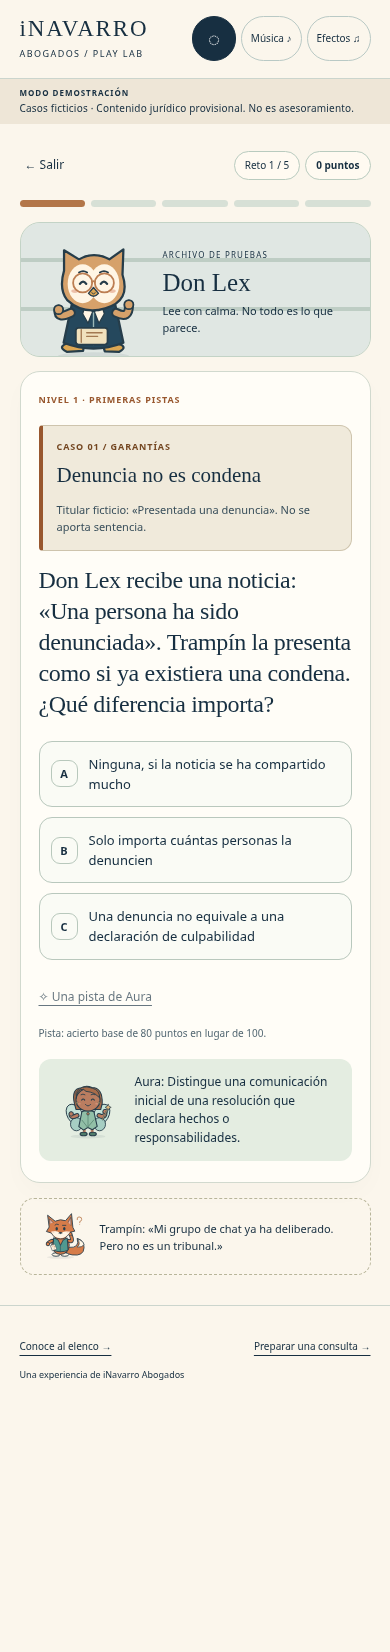
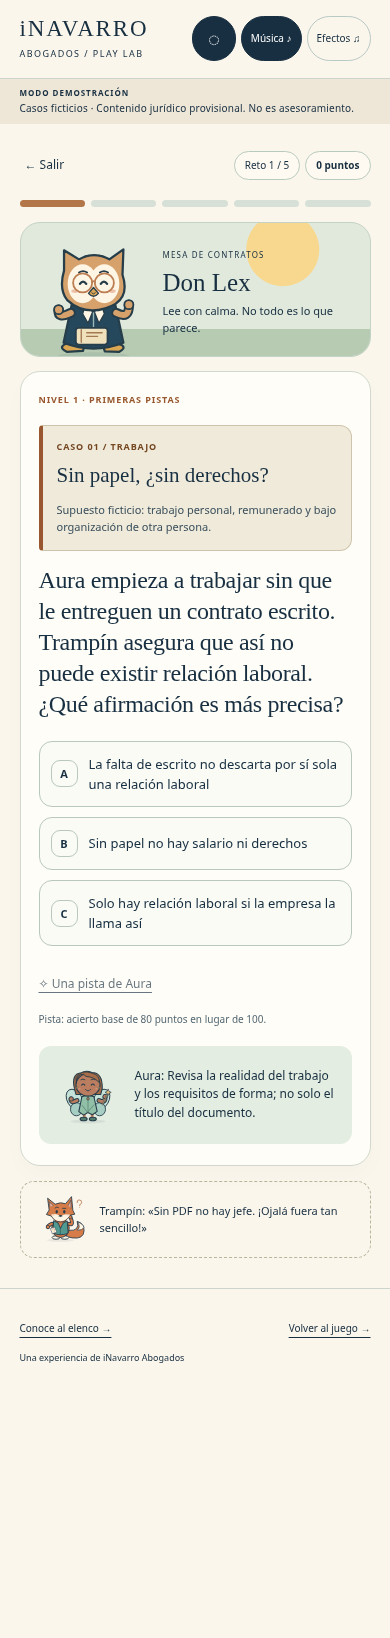
Prepare isolated HTTPS demo build and start music on Play gesture

diff --git a/web/esto-es-legal/game.js b/web/esto-es-legal/game.js
@@ -30,7 +30,8 @@ let manualMotion = false,
   started = 0,
   remaining = 20,
   pausedAt = null,
-  shareUrl = null;
+  shareUrl = null,
+  musicPreferenceSet = false;
 const el = (tag, text, cls) => {
   const n = document.createElement(tag);
   if (text !== undefined) n.textContent = text;
@@ -98,6 +99,8 @@ for (const [id, setter, name] of [
   const b = document.getElementById(id);
   b.addEventListener("click", async () => {
     const on = b.getAttribute("aria-pressed") !== "true";
+    if (id === "music") musicPreferenceSet = true;
+    b.disabled = true;
     try {
       const ok = await setter(on);
       if (!ok) {
@@ -111,8 +114,36 @@ for (const [id, setter, name] of [
       announce(`${name}: ${on ? "activado" : "desactivado"}.`);
     } catch {
       announce("Audio no disponible. La partida puede continuar.");
+    } finally {
+      b.disabled = false;
     }
   });
+}
+function startMusicFromPlayGesture() {
+  if (musicPreferenceSet || audio.music) return;
+  const control = document.getElementById("music");
+  control.disabled = true;
+  // Call before any await or navigation: iOS requires the original user gesture.
+  audio
+    .setMusic(true)
+    .then((ok) => {
+      if (ok) {
+        control.setAttribute("aria-pressed", "true");
+        control.setAttribute("aria-label", "Desactivar música");
+        announce("Música activada. Puedes silenciarla con el control Música.");
+      } else
+        announce(
+          "La música no está disponible. Puedes continuar jugando sin sonido.",
+        );
+    })
+    .catch(() =>
+      announce(
+        "La música no está disponible. Puedes continuar jugando sin sonido.",
+      ),
+    )
+    .finally(() => {
+      control.disabled = false;
+    });
 }
 function home(focus = false) {
   clearTimer();
@@ -120,7 +151,7 @@ function home(focus = false) {
   main.replaceChildren();
   const section = el("section", undefined, "home");
   section.innerHTML =
-    '<div class="home-intro"><div class="intro-copy"><p class="eyebrow">CINCO RETOS. SIETE CÓMPLICES. UN MATIZ.</p><h1>¿ESTO ES<br><em>LEGAL?</em></h1><p class="subtitle">¿Un contrato por WhatsApp vale? ¿La fianza paga el último mes?<br>Pon a prueba tu criterio con cinco casos de la vida cotidiana.</p><fieldset class="game-mode"><legend>Elige cómo jugar</legend><label><input type="radio" name="mode" value="relaxed" checked> A tu ritmo</label><label><input type="radio" name="mode" value="sprint"> Reto rápido · 20 s</label></fieldset><div id="start-slot"></div><p class="fine">Sin registro · Sin datos personales · Cinco preguntas</p><details class="scoring-guide"><summary>¿Cómo se puntúa?</summary><p>100 por acierto, o 80 con pista. La racha suma hasta 30 extra. En reto rápido, Brinco añade 20 si aciertas antes de 15 segundos. Un error no resta puntos.</p></details><span class="sound-notice">Música y efectos apagados al entrar. Actívalos cuando quieras.</span></div><div class="hero-world" aria-label="Don Lex, Trampín y Lexi presentan cinco casos jurídicos"><div class="world-floor"></div><span class="sky-star one" aria-hidden="true">✦</span><span class="sky-star two" aria-hidden="true">✧</span><span class="sky-star three" aria-hidden="true">✦</span><span class="speech-bubble">La letra pequeña tiene su gracia.</span><span class="world-label">EL DESPACHO DE DON LEX</span></div></div><div class="cast-parade" aria-label="Los siete personajes"></div><div class="home-bottom"><span>Casos ficticios. Contenido jurídico provisional.</span><span>Contenido pendiente de revisión con vLex Vincent.</span></div>';
+    '<div class="home-intro"><div class="intro-copy"><p class="eyebrow">CINCO RETOS. SIETE CÓMPLICES. UN MATIZ.</p><h1>¿ESTO ES<br><em>LEGAL?</em></h1><p class="subtitle">¿Un contrato por WhatsApp vale? ¿La fianza paga el último mes?<br>Pon a prueba tu criterio con cinco casos de la vida cotidiana.</p><fieldset class="game-mode"><legend>Elige cómo jugar</legend><label><input type="radio" name="mode" value="relaxed" checked> A tu ritmo</label><label><input type="radio" name="mode" value="sprint"> Reto rápido · 20 s</label></fieldset><div id="start-slot"></div><p class="fine">Sin registro · Sin datos personales · Cinco preguntas</p><details class="scoring-guide"><summary>¿Cómo se puntúa?</summary><p>100 por acierto, o 80 con pista. La racha suma hasta 30 extra. En reto rápido, Brinco añade 20 si aciertas antes de 15 segundos. Un error no resta puntos.</p></details><span class="sound-notice">La música empieza al pulsar Jugar. Puedes silenciarla arriba. Efectos opcionales.</span></div><div class="hero-world" aria-label="Don Lex, Trampín y Lexi presentan cinco casos jurídicos"><div class="world-floor"></div><span class="sky-star one" aria-hidden="true">✦</span><span class="sky-star two" aria-hidden="true">✧</span><span class="sky-star three" aria-hidden="true">✦</span><span class="speech-bubble">La letra pequeña tiene su gracia.</span><span class="world-label">EL DESPACHO DE DON LEX</span></div></div><div class="cast-parade" aria-label="Los siete personajes"></div><div class="home-bottom"><span>Casos ficticios. Contenido jurídico provisional.</span><span>Contenido pendiente de revisión con vLex Vincent.</span></div>';
   const topics = el("div", undefined, "legal-topics");
   topics.setAttribute("aria-label", "Temas de las preguntas");
   for (const topic of [
@@ -152,6 +183,7 @@ function home(focus = false) {
     button(
       "¡Vamos a jugar!  →",
       () => {
+        startMusicFromPlayGesture();
         const mode = section.querySelector("input:checked").value;
         state = startRound(questions, mode);
         renderQuestion(true);

diff --git a/docs/game/REVISION-HTTPS-RENDER.md b/docs/game/REVISION-HTTPS-RENDER.md
@@ -1,0 +1,50 @@
+# Enlace HTTPS de revisión separado de producción
+
+## Resultado de la comprobación del entorno — 1 de noviembre de 2026
+
+Herramientas disponibles inspeccionadas y estado actual del entorno consultado: sin capacidad de alojamiento público/preview, sin forwarding HTTPS público expuesto, sin identidad ni credenciales de un proveedor de previews. No hay túnel configurado; no se ha accedido al servicio Render de producción. La red restringida no habilita proveedores de túnel o alojamiento temporal. No se ha cambiado esa política ni se ha presentado localhost como enlace accesible desde un iPhone.
+
+No existe una URL HTTPS publicada o verificada en esta entrega. Tampoco hay iPhone físico conectado ni WebKit instalado en este entorno Linux. Las comprobaciones táctiles con Chromium no acreditan Safari real.
+
+## Configurar desde el móvil sin entregar ninguna API Key
+
+Usar el dashboard de Render autenticándose personalmente. No hace falta conceder a Codex acceso a la cuenta para este alta manual.
+
+1. Abrir https://dashboard.render.com/ y elegir **New → Static Site**. Crear un sitio nuevo; **no abrir para editar el servicio `inavarro-abogados`** ni usar un Blueprint de toda la aplicación.
+2. Seleccionar el repositorio **`inavarroabogados-cloud/Inavarro`**. Si es posible, usar la opción de repositorio Git público con `https://github.com/inavarroabogados-cloud/Inavarro`. Elegir explícitamente la rama **`feat/elenco-esto-es-legal`**, nunca `main`.
+3. Nombre sugerido para el servicio nuevo: **`esto-es-legal-demo`**. Si está ocupado, elegir otro nombre para la demo. La URL válida será la que Render asigne; no se presupone un dominio disponible.
+4. Root Directory: vacío (raíz del repositorio).
+5. Build Command: **`node scripts/build-game-preview.mjs`**.
+6. Publish Directory: **`preview-dist`**.
+7. **Auto-Deploy: Off / Disabled** (según la etiqueta del dashboard). Desactivar antes de finalizar; no usar «On Commit» ni «After CI». No activar previews automáticas de pull requests ni crear hooks.
+8. Variables de entorno: ninguna para el juego. Sin API Keys, servicios de base de datos, backend, funciones ni panel editorial. Sin reglas globales de reescritura SPA. Mantener el nombre/dominio nuevo de la demo; no asociar el dominio principal.
+9. Usar solo una modalidad sin coste si está disponible en la cuenta. Si Render indica un cargo o exige cambiar un plan, detener el alta: no se ha aprobado contratar nada.
+10. Crear el sitio nuevo o solicitar **Manual Deploy → Deploy latest commit**. Esa publicación inicial es una acción manual, no autorización para desplegar automáticamente futuros pushes. Esperar al final del build y comprobar los registros.
+
+La creación puede iniciar su primer build inmediatamente. Antes de confirmarla, revisar repositorio, rama, comando, directorio y Auto-Deploy. Nada de lo anterior requiere fusionar main o modificar producción. No pulsar botones de deploy del servicio existente.
+
+## Qué contiene la compilación aislada
+
+`preview-dist/` incluye únicamente el juego demo, banco de casos ficticios de contenido provisional, siete personajes, 42 SVG, animaciones, galería y tarjetas públicas. No ejecuta `build-render.mjs`, no consulta noticias remotas, no usa secretos y no incluye `game-editor`, clientes, administración, datos locales ni la herramienta de consultas. El enlace a consultas se sustituye en esta salida por vuelta al juego.
+
+La raíz dirige a `/esto-es-legal/`. `robots.txt` y metadatos indican noindex; esto evita solicitar indexación, **no crea protección por contraseña**. El juego de demostración queda accesible a quien tenga la URL. Solo contiene casos ficticios y no admite introducir información confidencial.
+
+El build rechaza explícitamente el nombre/dominio de producción y, si Render informa de otra rama, también rechaza `main`. La imagen Open Graph se reescribe al dominio de la nueva demo para no apuntar a producción.
+
+Marcador de versión: `/preview-version.json`, con tipo `game-demo-only`, SHA y `administration:false`. Se conserva la identidad y las ilustraciones. No se instala un servidor de desarrollo ni un backend en Render.
+
+## Verificar la URL y Safari en el iPhone
+
+1. Copiar del dashboard la URL HTTPS real del **nuevo** servicio y abrir `/esto-es-legal/` en Safari. No adivinar el nombre del dominio.
+2. Confirmar candado HTTPS y contenido de demostración. Revisar `/preview-version.json`: debe corresponder al commit desplegado de la rama de revisión.
+3. Con volumen audible, pulsar **«¡Vamos a jugar!»**: la música se solicita dentro de ese gesto. El control superior debe pasar a «Desactivar música». Si Safari no permite el audio, debe poder continuarse sin bloqueo y activarlo desde el control superior. Los efectos siguen siendo opcionales.
+4. Completar cinco preguntas con toques, pedir una pista, leer explicaciones, obtener la recompensa y reiniciar. Girar el iPhone, aumentar texto y probar «Reducir movimiento».
+5. En reto rápido, cambiar de aplicación y volver: tiempo pausado, con reanudación manual. Comprobar mute explícito antes de jugar: debe respetarse.
+6. Probar la tarjeta y el menú nativo de compartir en HTTPS. Cancelar no debe mostrar un envío realizado.
+7. Confirmar que `/game-editor/`, `/administracion/`, `/clientes/`, `/.env` y `/game-editor/data/questions.json` no sirven panel ni datos (normalmente 404). No añadir rewrites que oculten esas comprobaciones.
+
+Puedes facilitar la URL pública de la demo para comprobar desde aquí estado HTTP, recursos, versión y recorrido automatizado. **Nunca enviar claves ni credenciales por el chat.** No se afirmará una prueba en Safari/iPhone físico sin haberla realizado: debe registrarse por separado de la emulación.
+
+## Retirar o restaurar la revisión
+
+Al terminar, suspender o eliminar exclusivamente el nuevo Static Site de demostración desde su propio dashboard. No borrar repositorios ni el servicio `inavarro-abogados`. Para volver a una versión anterior de la demo, usar solo su despliegue anterior verificado o desplegar manualmente el commit de revisión correspondiente. Auto-Deploy debe continuar desactivado.

diff --git a/docs/game/README.md b/docs/game/README.md
@@ -52,7 +52,7 @@ Los estados y respuestas viven solo en memoria; recargar borra la partida. Sin c
 
 ## Sonido y movimiento
 
-Música original de síntesis Web Audio: secuencia de 16 notas con bajo, timbres triangle/sine y envolventes cortas; efectos diferenciados de acierto, error, pista y victoria. Sin muestras, archivos de terceros ni descargas de audio. Apagado al entrar; requiere gesto explícito, se detiene al ocultar la página. Los efectos son opcionales y las señales también son visuales y textuales.
+Música original de síntesis Web Audio: secuencia de 16 notas con bajo, timbres triangle/sine y envolventes cortas; efectos diferenciados de acierto, error, pista y victoria. Sin muestras, archivos de terceros ni descargas de audio. Apagado al entrar; la música se solicita al pulsar Jugar, se respeta el silencio elegido y se detiene al ocultar la página. Los efectos son opcionales y las señales también son visuales y textuales.
 
 Entradas, flotación, reacciones, estrellas y confeti mediante transformaciones CSS; no hay canvas de animación por fotograma ni dependencia gráfica. El canvas se usa solo al solicitar una tarjeta PNG. `prefers-reduced-motion` desactiva movimiento; control manual adicional. No se imponen destellos, vibración ni movimiento al contenido que hay que leer.
 
@@ -88,3 +88,9 @@ No integra vLex ni publica contenidos revisados automáticamente; los casos sigu
 ## Restauración
 
 La integración es aditiva. Para deshacer esta iteración, revertir su commit en otra rama y revisar el PR: el commit anterior mantiene la galería. No toca migraciones ni datos existentes. No borrar `game-editor/data`; hacer copia antes de cualquier mantenimiento. Cualquier futura publicación exige aprobación y el procedimiento de `DEPLOYMENT.md` con SHA, registros y verificación pública. Esta entrega no lo ejecuta.
+
+## Vista de revisión HTTPS independiente
+
+[Configuración de un Static Site separado en Render, sin API Key, sin main y sin Auto-Deploy](REVISION-HTTPS-RENDER.md). Comando de build aislado: `node scripts/build-game-preview.mjs`; directorio publicable: `preview-dist`. Este comando solo prepara archivos, no despliega.
+
+La música permanece apagada al cargar la página y se activa al pulsar **Jugar**, dentro del gesto del usuario. Un silencio elegido expresamente en el control Música se respeta al empezar otra partida. Los efectos continúan siendo opcionales. Fallos de audio no impiden jugar.

diff --git a/docs/game/VERIFICACION.md b/docs/game/VERIFICACION.md
@@ -31,3 +31,11 @@ Partidas completas con `tap()` y reinicio en cinco perfiles emulados: iPhone SE,
 La suite JS actual tiene 15 pruebas correctas, incluida la distinción de direcciones de revisión Wi-Fi frente a URLs públicas. Dos pruebas Python adicionales verifican el servidor de revisión: recursos del juego accesibles, editor/repositorio/directorios bloqueados y HEAD correcto.
 
 El usuario necesita un enlace HTTPS desde el teléfono, sin ordenador. Los lanzadores Wi-Fi no resuelven ese acceso. Se ha comprobado que no hay capacidad de preview en el entorno ni secreto RENDER_API_KEY configurado; no se ha creado ni verificado una URL pública, no se ha desplegado ni fusionado main. Requiere habilitar un alojamiento de revisión separado y comprobar la URL resultante; no utilizar la producción como sustituto de la revisión.
+
+## Preparación de revisión HTTPS aislada — 1 de noviembre de 2026
+
+Inspeccionadas herramientas y capacidades actuales: no hay hosting de previews ni forwarding HTTPS público disponible. Sin acceso conectado a proveedores de preview. No se ha usado Render de producción ni generado una URL HTTPS pública. Instrucciones manuales sin API Key: `REVISION-HTTPS-RENDER.md`.
+
+La música se solicita dentro del gesto de Jugar (sin esperar una navegación), permanece apagada antes y respeta silencio explícito. Pruebas táctiles de partida completa con música activada en cinco perfiles de Chromium, más silencio previo y ausencia de AudioContext: correctas. No es una prueba de Safari real ni de un altavoz físico. WebKit no está instalado y no hay iPhone conectado.
+
+18 pruebas JS correctas. El nuevo build `scripts/build-game-preview.mjs` genera solo recursos demo en `preview-dist`; rechaza el nombre/dominio de producción, rama main informada por Render y archivos ajenos en la salida. Pruebas HTTP locales: juego, audio, preguntas y marcador 200; editor, administración, clientes y .env 404. No se ha desplegado ni fusionado main. La URL y Safari físico siguen pendientes de verificación tras habilitar la revisión independiente.
